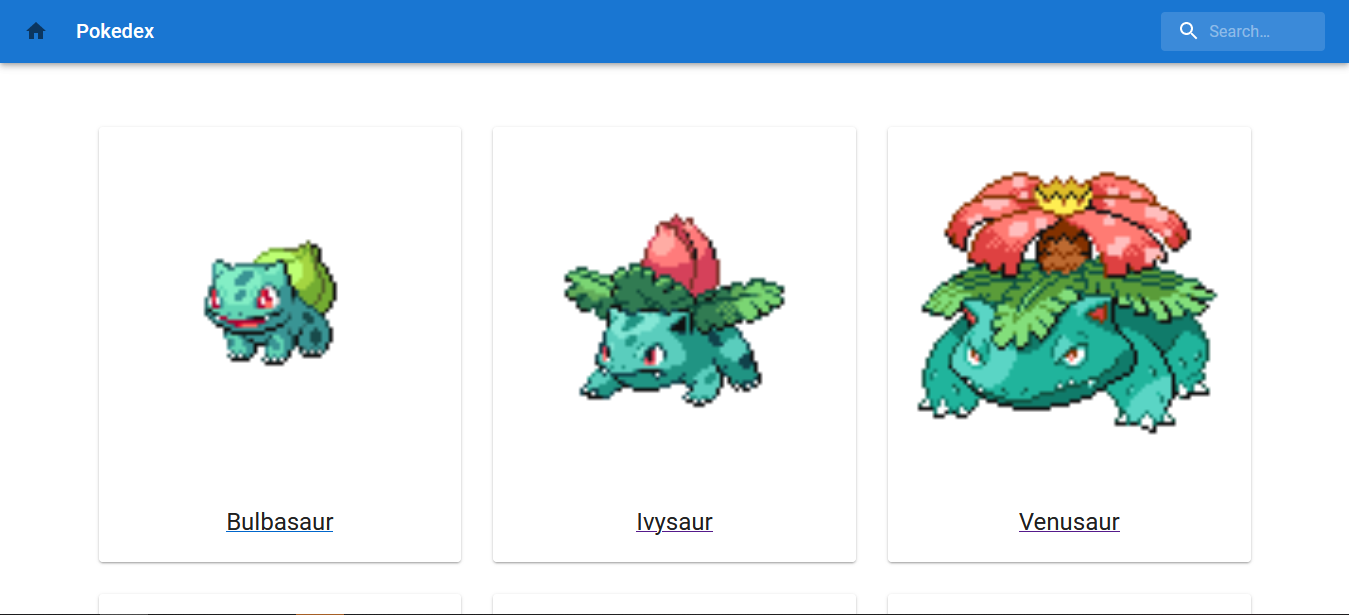
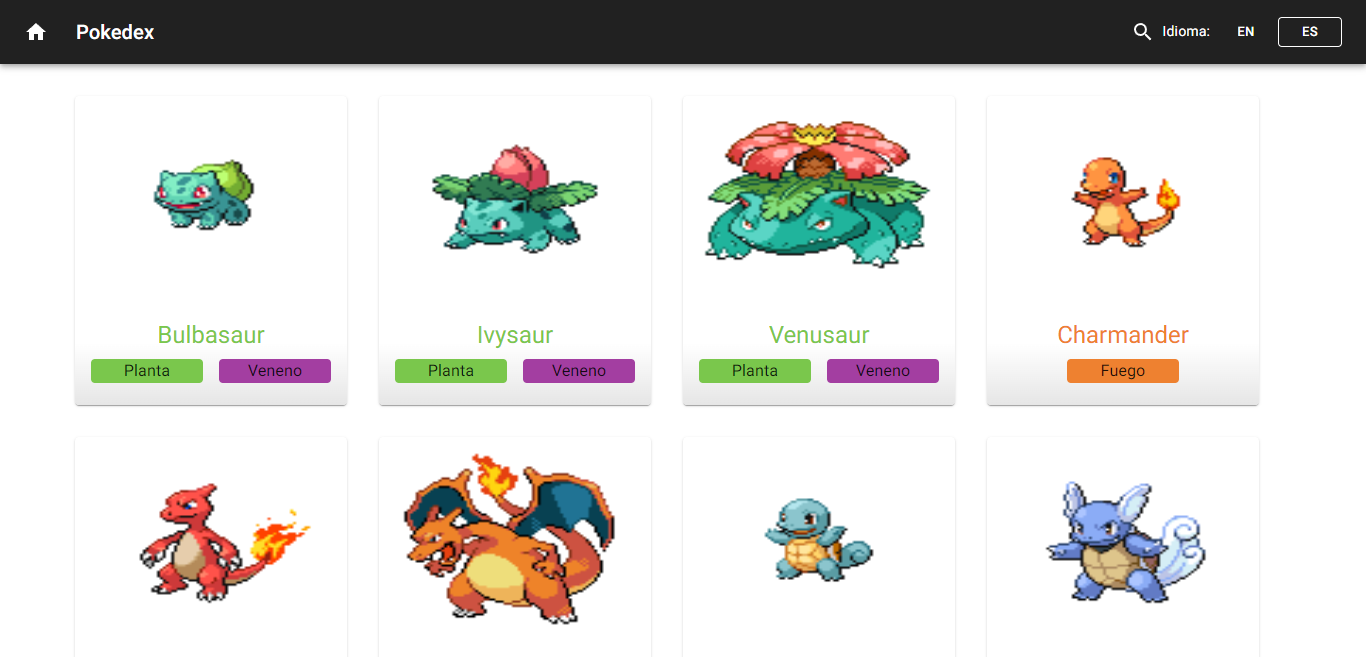
Added: Pokedex Nextjs

diff --git a/src/constants/constants.js b/src/constants/constants.js
@@ -19,11 +19,11 @@ export const projects = [
   },
   {
     title: 'Pokedex',
-    description: "Using React, made this app using pokeAPI to practice my skills with Material UI, and React Router ",
+    description: "Pokedex using Next.js, i18n,React Query, Styled Components, PokeAPI, SSR, ISR, SSG, Material UI",
       image: '/images/pokedex.PNG',
-      tags: ['React','API REST', 'Material UI', 'React Router'],
-    source: 'https://github.com/Deadflight/Pokedex',
-    visit: 'https://deadflight.github.io/Pokedex',
+      tags: ['Next.js','API REST', 'Material UI', 'React Query', 'i18n'],
+    source: 'https://github.com/Deadflight/pokedex-nextjs',
+    visit: 'https://pokedex-nextjs-beta.vercel.app/',
     id: 2,
   },
   {

diff --git a/src/components/Footer/Footer.js b/src/components/Footer/Footer.js
@@ -8,10 +8,10 @@ const Footer = () => {
   return (
     <FooterWrapper>
       <LinkList>
-        {/* <LinkColumn>
+        <LinkColumn>
           <LinkTitle>Call</LinkTitle>
-          <LinkItem href="tel:+574248880741">+584248880742</LinkItem>
-        </LinkColumn> */}
+          <LinkItem href="tel:+584166885225">+584166885225</LinkItem>
+        </LinkColumn>
         <LinkColumn>
           <LinkTitle>Email</LinkTitle>
           <LinkItem href="mailto:correamillancarlos@gmail.com">
